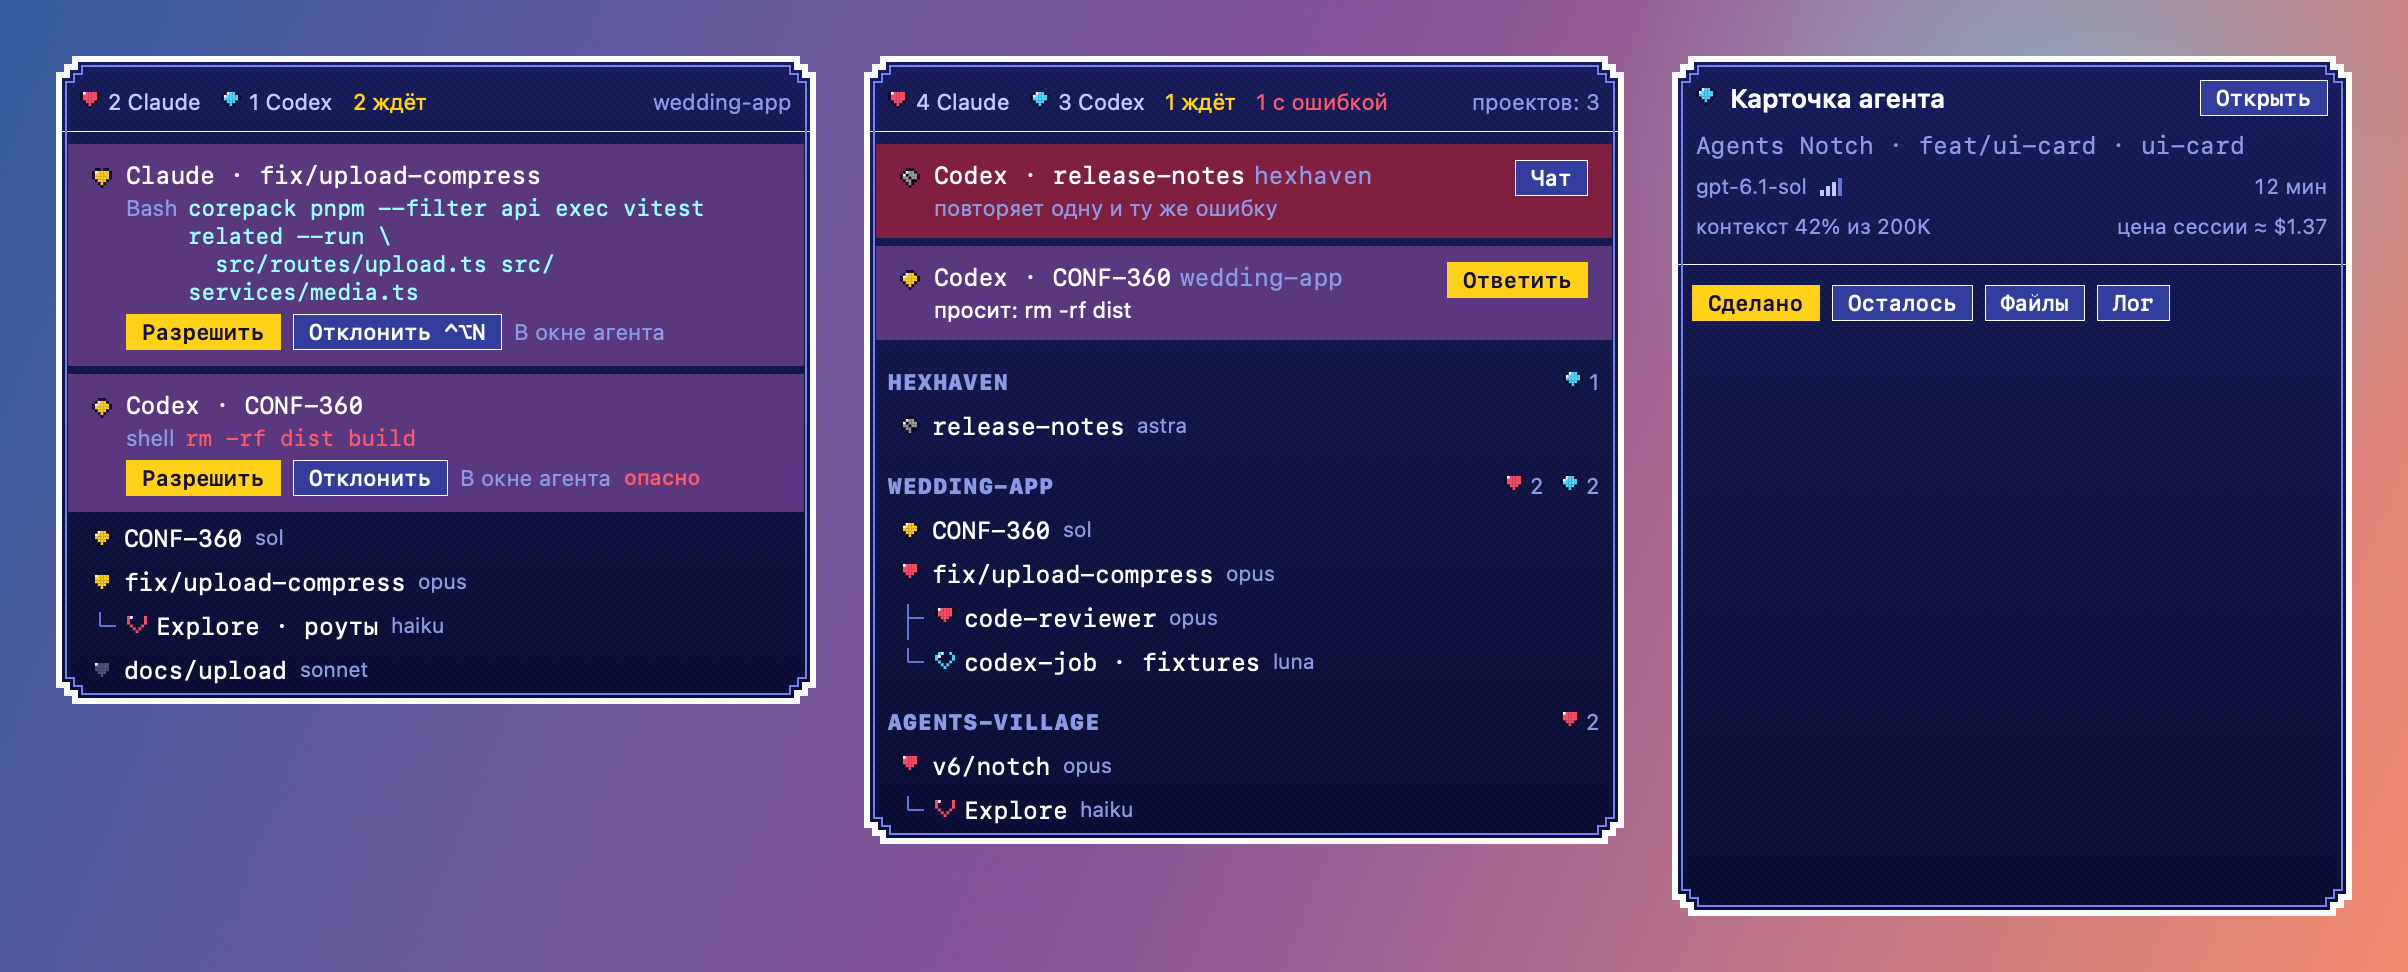
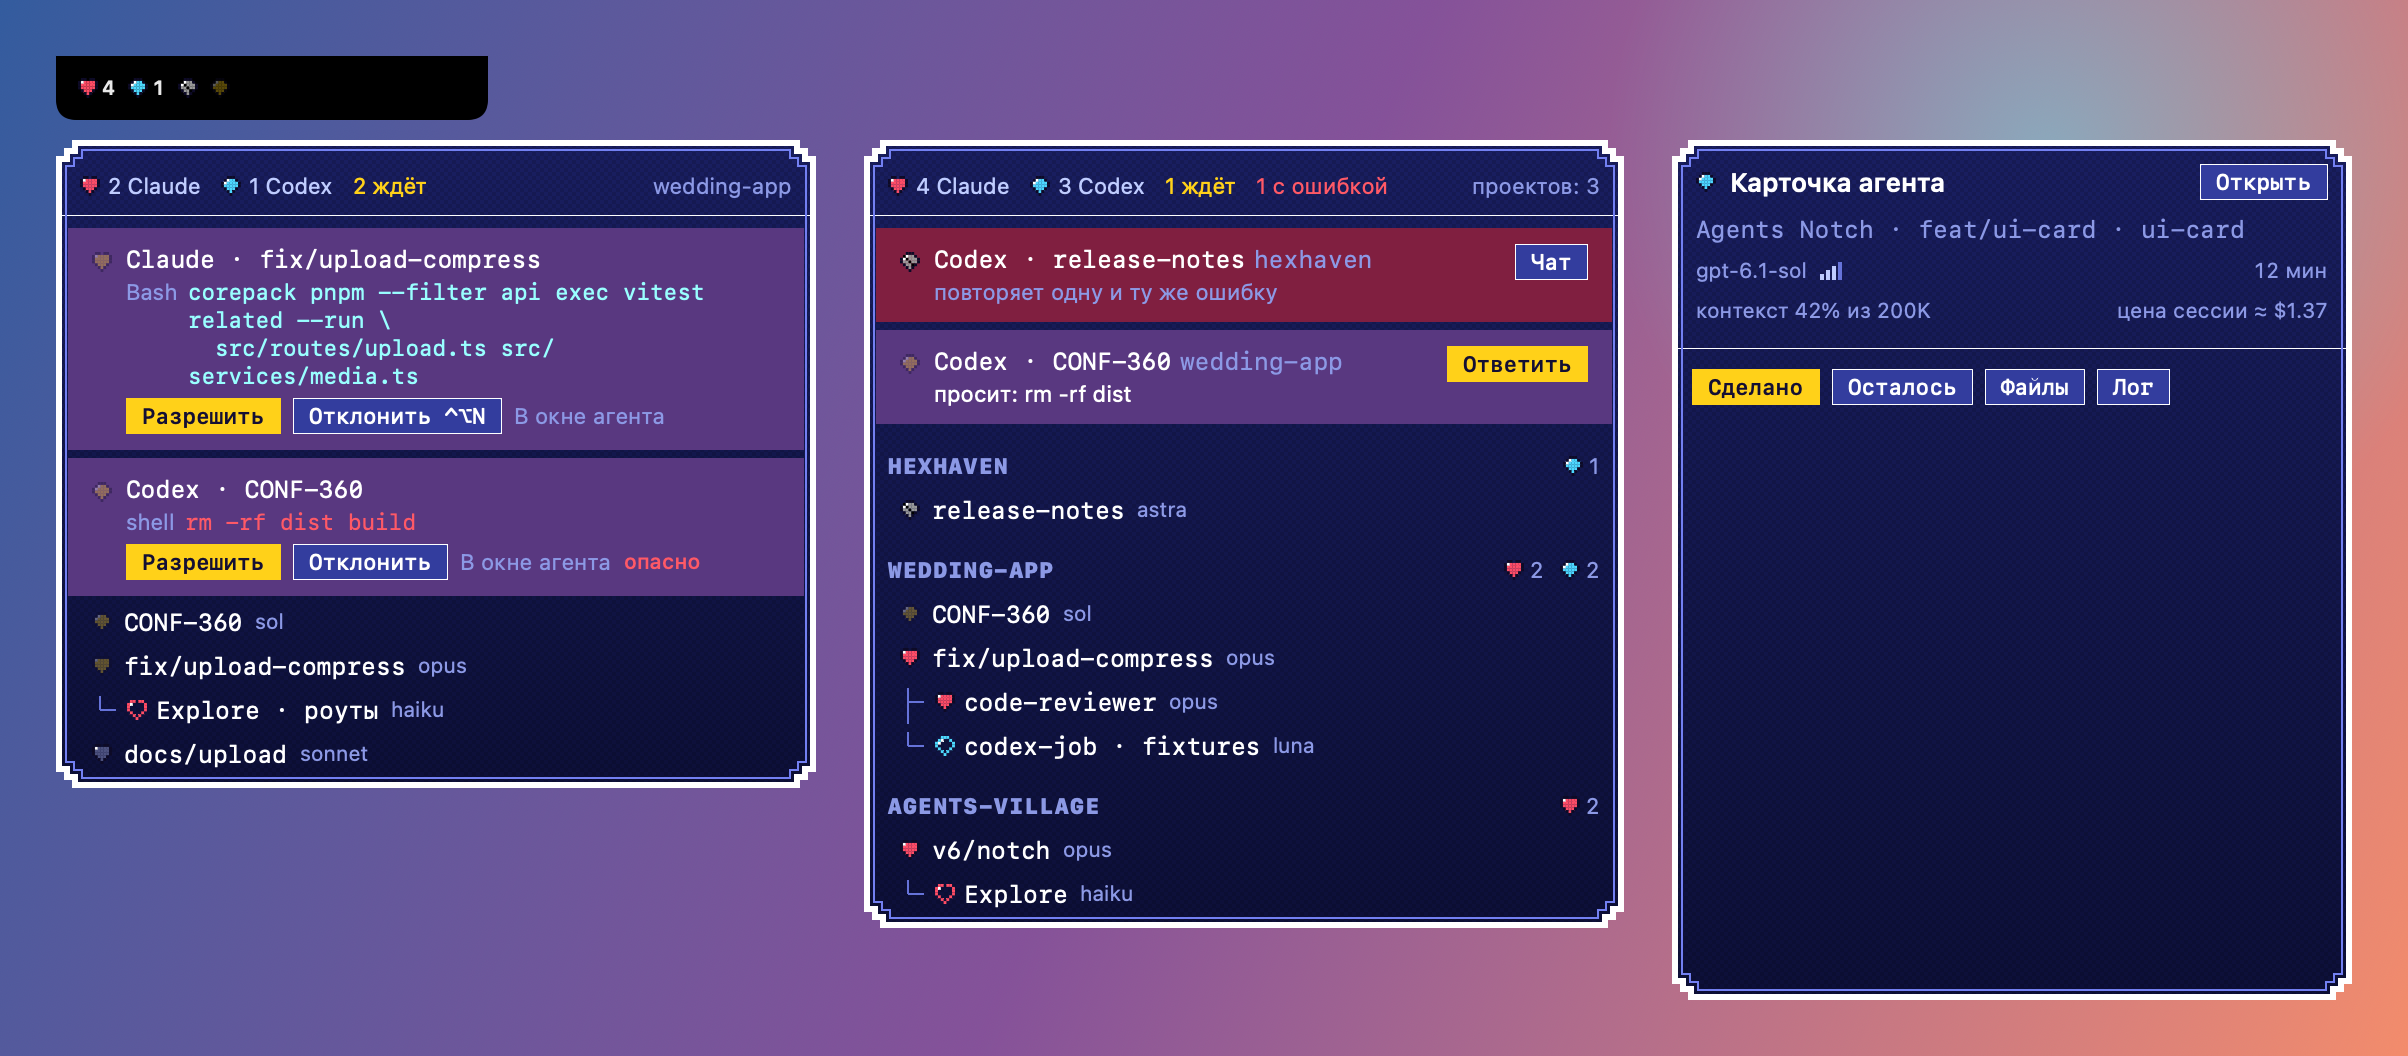
feat(themes): theme marks as a 4th badge option, shown in the wing too
(cherry picked from commit dab01e5dbb69ac9aa320a49750d2eba3108149cb)

diff --git a/Sources/AgentsNotch/SettingsDisplay.swift b/Sources/AgentsNotch/SettingsDisplay.swift
@@ -19,7 +19,13 @@ struct SettingsAppearance: View {
             Section(SettingsText.marks) {
                 HStack(spacing: 10) {
                     ForEach([MarkStyle.dots, .logos, .logosMono], id: \.self) { style in
-                        SettingsMarkCard(style: style, selected: settings.appearance.markStyle == style) { settings.appearance.markStyle = style }
+                        SettingsMarkCard(style: style, selected: !settings.usesThemeMarks && settings.appearance.markStyle == style) {
+                            settings.appearance.markStyle = style
+                            settings.themeMarks = false
+                        }
+                    }
+                    if settings.theme != .terminal {
+                        SettingsThemeMarkCard(theme: settings.currentTheme, selected: settings.usesThemeMarks) { settings.themeMarks = true }
                     }
                 }.padding(.vertical, 4)
                 Picker(SettingsText.markSize, selection: $settings.appearance.markSize) {
@@ -92,6 +98,35 @@ struct SettingsMarkCard: View {
                 .background(Color.black, in: RoundedRectangle(cornerRadius: 6))
                 .environment(\.colorScheme, .dark)
                 Text(SettingsText.name(style.rawValue)).font(.system(size: 11)).multilineTextAlignment(.center)
+                    .lineLimit(2).fixedSize(horizontal: false, vertical: true).frame(height: 28, alignment: .top)
+            }
+            .padding(8)
+            .background(RoundedRectangle(cornerRadius: 9).fill(Color(nsColor: .controlBackgroundColor)))
+            .overlay(RoundedRectangle(cornerRadius: 9).strokeBorder(selected ? Color.accentColor : Color.primary.opacity(0.1),
+                                                                    lineWidth: selected ? 2.5 : 1))
+            .contentShape(Rectangle())
+        }
+        .buttonStyle(.plain)
+        .accessibilityAddTraits(selected ? .isSelected : [])
+    }
+}
+
+/// «Как в теме»: the marks of the chosen theme, on a black wing like the other cards.
+struct SettingsThemeMarkCard: View {
+    let theme: Theme
+    let selected: Bool
+    let choose: () -> Void
+    var body: some View {
+        Button(action: choose) {
+            VStack(spacing: 8) {
+                HStack(spacing: 10) {
+                    ThemeMark(theme: theme, vendor: .claude, state: .working, isLight: false, size: 14)
+                    ThemeMark(theme: theme, vendor: .codex, state: .working, isLight: false, size: 14)
+                }
+                .frame(maxWidth: .infinity).frame(height: 30)
+                .background(Color.black, in: RoundedRectangle(cornerRadius: 6))
+                .environment(\.colorScheme, .dark)
+                Text(SettingsText.themeMarks).font(.system(size: 11)).multilineTextAlignment(.center)
                     .lineLimit(2).fixedSize(horizontal: false, vertical: true).frame(height: 28, alignment: .top)
             }
             .padding(8)

diff --git a/Sources/AgentsNotch/AppSettings.swift b/Sources/AgentsNotch/AppSettings.swift
@@ -13,7 +13,16 @@ final class AppSettings: ObservableObject {
 
     @Published var appearance: AppearancePrefs { didSet { save(appearance, "appearance") } }
     /// Kept apart from «appearance» so older saved appearance blobs keep decoding.
-    @Published var theme: ThemeID { didSet { save(theme, "theme") } }
+    @Published var theme: ThemeID {
+        didSet {
+            save(theme, "theme")
+            // A new theme shows its own marks at once; «Значки агентов» can switch back.
+            if theme != oldValue && theme != .terminal { themeMarks = true }
+        }
+    }
+    /// The fourth mark style, «Как в теме»: kept apart from «markStyle», which «Терминал» falls back to.
+    @Published var themeMarks: Bool { didSet { save(themeMarks, "themeMarks") } }
+    var usesThemeMarks: Bool { themeMarks && theme != .terminal }
     @Published var wing: WingPrefs { didSet { save(wing, "wing") } }
     @Published var rows: RowPrefs { didSet { save(rows, "rows") } }
     @Published var card: CardPrefs { didSet { save(card, "card") } }
@@ -46,6 +55,7 @@ final class AppSettings: ObservableObject {
         }
         appearance = load("appearance", AppearancePrefs())
         theme = load("theme", ThemeID.terminal)
+        themeMarks = load("themeMarks", false)
         wing = load("wing", WingPrefs())
         rows = load("rows", RowPrefs())
         card = load("card", CardPrefs())
@@ -84,6 +94,7 @@ final class AppSettings: ObservableObject {
         let hidden = behavior.hiddenProjects
         appearance = AppearancePrefs()
         theme = .terminal
+        themeMarks = false
         wing = WingPrefs()
         rows = RowPrefs()
         card = CardPrefs()

diff --git a/Sources/AgentsNotch/Snapshot.swift b/Sources/AgentsNotch/Snapshot.swift
@@ -68,6 +68,8 @@ enum Snapshot {
         settings.apply(.detailed)
         settings.appearance.finishedMinutes = 15
         ok = shot(.appearance, dir.appendingPathComponent("preset-own.png")) && ok
+        settings.theme = .pixel
+        ok = shot(.appearance, dir.appendingPathComponent("theme-pixel-marks.png"), height: 1500) && ok
         return ok
     }
 
@@ -85,11 +87,18 @@ enum Snapshot {
             let ask = Store(settings: settings), list = Store(settings: settings)
             ask.useFixture(Fixtures.agents("ask") ?? [], asks: Fixtures.asks("ask"))
             list.useFixture(Fixtures.agents("projects") ?? [], asks: [])
-            let scene = HStack(alignment: .top, spacing: 24) {
+            let scene = VStack(alignment: .leading, spacing: 10) {
+                HStack(spacing: 0) {
+                    WingView(layout: list.layout).frame(height: 32)
+                    Color.clear.frame(width: 120, height: 32)
+                }
+                .background(UnevenRoundedRectangle(bottomLeadingRadius: 9, bottomTrailingRadius: 9).fill(.black))
+                HStack(alignment: .top, spacing: 24) {
                 PanelView(store: ask, scrolls: false).fixedSize(horizontal: false, vertical: true).environmentObject(ask.usage)
                 PanelView(store: list, scrolls: false).fixedSize(horizontal: false, vertical: true).environmentObject(list.usage)
                 CardView(agent: CardFixture.agent, detail: CardFixture.detail, context: ContextUsage(usedTokens: 84_000, windowTokens: 200_000),
                          cost: SessionCost(tokens: 1, usd: 1.37)).frame(height: 430)
+                }
             }
             .padding(28)
             .background(ThemeWallpaper())

diff --git a/Sources/AgentsNotch/SettingsText.swift b/Sources/AgentsNotch/SettingsText.swift
@@ -8,10 +8,11 @@ enum SettingsText {
     static var title: String { Loc.t("Settings", "Настройки") }
 
     // Внешний вид
-    static var presetHelp: String { Loc.t("A preset sets up the row, the list, limits and the card at once.", "Пресет сразу настраивает строку, список, лимиты и карточку.") }
-    static var own: String { Loc.t("Custom", "Своё") }
-    static var theme: String { Loc.t("Theme", "Тема") }
-    static var marks: String { Loc.t("Agent icons", "Значки агентов") }
+    static let presetHelp = "Пресет сразу настраивает строку, список, лимиты и карточку."
+    static let own = "Своё"
+    static let theme = "Тема"
+    static let themeMarks = "Как в теме"
+    static let marks = "Значки агентов"
     static func theme(_ id: ThemeID) -> String {
         switch id {
         case .terminal: Loc.t("Terminal", "Терминал")

diff --git a/Sources/AgentsNotch/WingView.swift b/Sources/AgentsNotch/WingView.swift
@@ -71,8 +71,11 @@ private struct WingStatusMark: View {
     var small = false
     @EnvironmentObject private var settings: AppSettings
     var body: some View {
-        StatusMark(vendor: mark.vendor, state: mark.state, isLight: mark.light,
-                   style: settings.appearance.markStyle,
-                   size: small ? settings.wingDisplay.childSize : settings.appearance.markSize.points)
+        let size = small ? settings.wingDisplay.childSize : settings.appearance.markSize.points
+        if settings.usesThemeMarks {
+            ThemeMark(theme: settings.currentTheme, vendor: mark.vendor, state: mark.state, isLight: mark.light, size: size + 1)
+        } else {
+            StatusMark(vendor: mark.vendor, state: mark.state, isLight: mark.light, style: settings.appearance.markStyle, size: size)
+        }
     }
 }

diff --git a/Sources/AgentsNotch/ThemeMark.swift b/Sources/AgentsNotch/ThemeMark.swift
@@ -273,7 +273,7 @@ struct ThemedVendorMark: View {
     @EnvironmentObject private var settings: AppSettings
     @Environment(\.theme) private var theme
     var body: some View {
-        if theme.id == .terminal {
+        if !settings.usesThemeMarks {
             StatusMark(vendor: vendor, state: .working, isLight: false, style: settings.appearance.markStyle, size: settings.appearance.markSize.points)
         } else {
             ThemeMark(theme: theme, vendor: vendor, state: .working, isLight: false, size: settings.appearance.markSize.points + 1)

diff --git a/Sources/AgentsNotch/StatusMark.swift b/Sources/AgentsNotch/StatusMark.swift
@@ -139,7 +139,7 @@ struct AgentStatusMark: View {
     @Environment(\.theme) private var theme
 
     var body: some View {
-        if theme.id != .terminal {
+        if settings.usesThemeMarks {
             ThemeMark(theme: theme, vendor: agent.vendor, state: agent.state, isLight: agent.isLight,
                       size: (small ? settings.wingDisplay.childSize : settings.appearance.markSize.points) + 1)
         } else {
